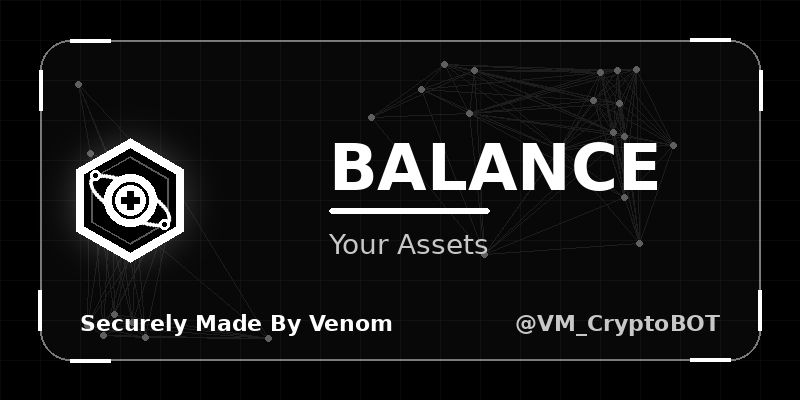
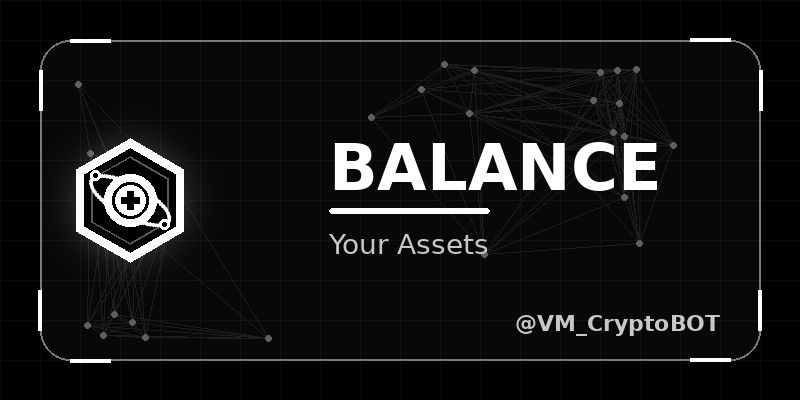
Remove 'Securely Made By Venom' branding

Changed region(s): [[0.0938, 0.78, 0.5, 0.84]]

diff --git a/depobot.py b/depobot.py
@@ -4380,8 +4380,6 @@ async def help_command(update: Update, context: ContextTypes.DEFAULT_TYPE):
         "<code>/convert</code>  <i>Swap between supported assets</i>\n\n"
         f"{h_html('card', 'Wallet Generation')}\n"
         "<code>/generate</code>  <i>Create a new wallet for any network</i>\n\n"
-        f"{SOFT_DIVIDER}\n"
-        "<i>Securely Made By Venom</i>"
     )
 
     await send_photo_with_banner(
@@ -7754,8 +7752,6 @@ async def show_help(update: Update, context: ContextTypes.DEFAULT_TYPE):
         "<code>/convert</code>  <i>Swap between supported assets</i>\n\n"
         f"{h_html('card', 'Wallet Generation')}\n"
         "<code>/generate</code>  <i>Create a new wallet for any network</i>\n\n"
-        f"{SOFT_DIVIDER}\n"
-        "<i>Securely Made By Venom</i>"
     )
 
     await edit_message_with_banner(

diff --git a/generate_banners.py b/generate_banners.py
@@ -155,7 +155,7 @@ def create_banner(title, subtitle, filename, accent_color, gradient_colors, extr
     draw.line([(width//2 - line_width//2, line_y), (width//2 + line_width//2, line_y)], 
               fill=accent_color, width=2)
     
-    tagline = "Securely Made By Venom"
+    tagline = ""
     draw.text((70, height - 65), tagline, font=tagline_font, fill=accent_color)
     
     handle = "@VMDepoBot"
@@ -283,7 +283,7 @@ def create_profile_picture():
     draw.line([(size//2 - line_width//2, line_y), (size//2 + line_width//2, line_y)], 
               fill=accent_color, width=2)
     
-    tagline = "Securely Made By Venom"
+    tagline = ""
     try:
         tagline_font = ImageFont.truetype("/usr/share/fonts/truetype/liberation/LiberationSans-BoldItalic.ttf", 18)
     except:

diff --git a/scripts/make_dashboard_banner.py b/scripts/make_dashboard_banner.py
@@ -20,7 +20,6 @@ GREY = (200, 200, 200, 255)
 DIM = (140, 140, 140, 255)
 
 HANDLE = "@VM_CryptoBOT"
-FOOTER = "Securely Made By Venom"
 
 SECTION_BANNERS = {
     "balance": ("BALANCE", "Your Assets"),
@@ -130,7 +129,6 @@ def draw_logo(img, cx, cy, r):
 def footer(img, card):
     d = ImageDraw.Draw(img, "RGBA")
     f_foot = font(FONT_BOLD, 22)
-    d.text((card[0] + 40, card[3] - 50), FOOTER, font=f_foot, fill=WHITE)
     hw = d.textlength(HANDLE, font=f_foot)
     d.text((card[2] - 40 - hw, card[3] - 50), HANDLE, font=f_foot, fill=GREY)
 
